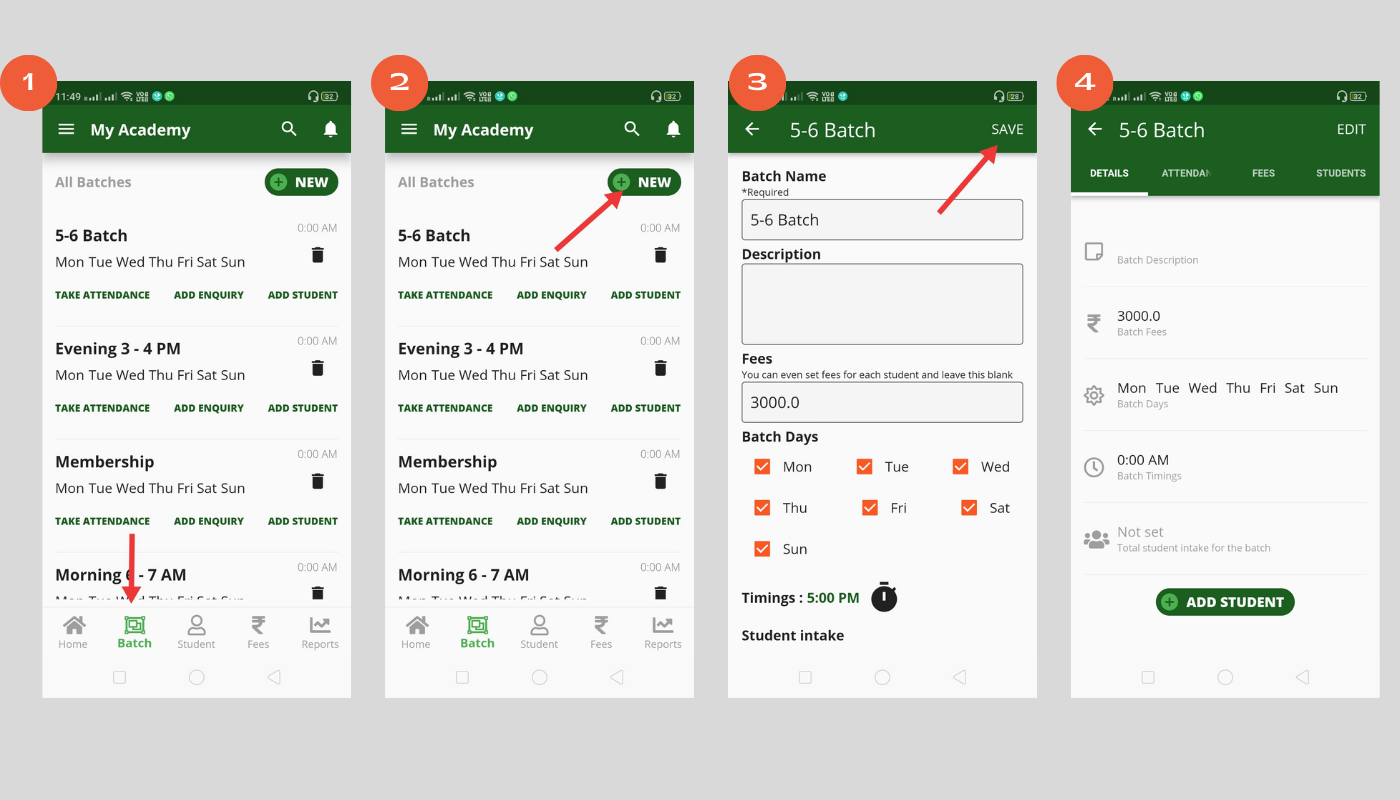
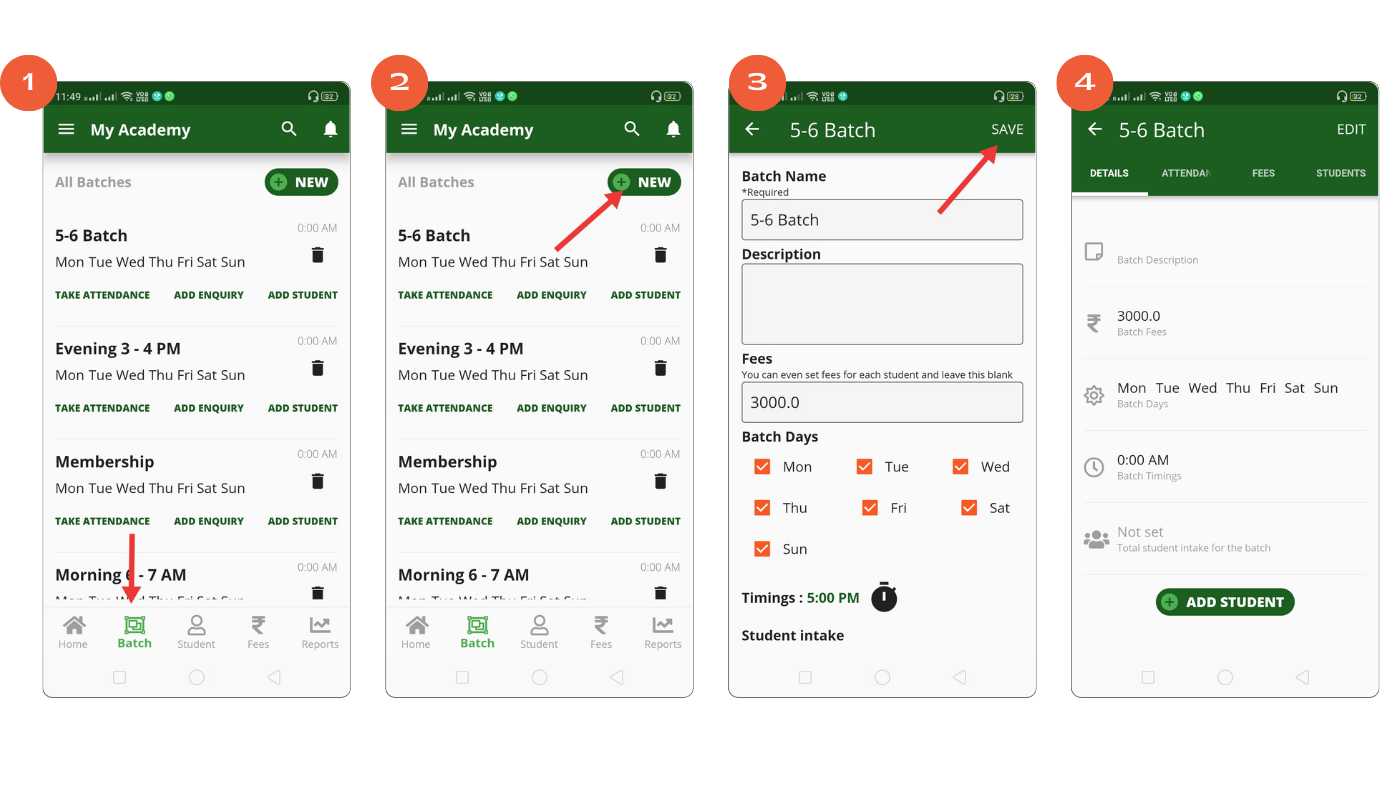
Latest changes

diff --git a/_includes/header.html b/_includes/header.html
@@ -1,8 +1,8 @@
-<nav class="navbar navbar-expand-lg bg-light">
+<nav class="navbar navbar-expand-lg bg-white shadow">
   <div class="container">
     <a class="navbar-brand" rel="author" href="{{ "/" | relative_url }}">
       <img src="/assets/img/logo_new.png" width="100" alt="">
-      <!-- {{ site.title | escape }} -->
+      <!-- {{ site.title | escape }} -->      
     </a>
 
     {%- assign page_paths = site.header_pages -%}

diff --git a/_layouts/bb_guide_post.html b/_layouts/bb_guide_post.html
@@ -22,15 +22,17 @@ layout: bb_default
 
 
     {% if page.image %}
-      <div class="row">
+    <div class="row">
+      <div class="col-12 col-lg-8">
         <img alt="{{page.imagealt}}" src="{{page.image}}" />
       </div>
+    </div>
 
-      {% endif %}
+    {% endif %}
 
 
-    <section>
-      
+    <section class="mt-3">
+
       <div class="row">
         <!-- Guide content -->
         <div class="col-12 col-lg-8">

diff --git a/pages/guide.html b/pages/guide.html
@@ -13,7 +13,7 @@ redirect_from:
     <div class="jumbotron p-4 p-md-5 rounded bg-white border">
         <div class="row">
             <div class="col-12 col-md-6">
-                <img src="https://miro.medium.com/v2/resize:fit:720/format:webp/1*heeSvDKyk33oMdnUmgPvwg.png" />
+                <img src="/assets/img/drive/guide/getting-started.png" />
 
             </div>
             <div class="col-12 col-md-6 px-0">

diff --git a/_posts/drive/guide/2023-09-23-getting-started.md b/_posts/drive/guide/2023-09-23-getting-started.md
@@ -5,7 +5,7 @@ permalink: /drive/guide/getting-started
 title: Getting Started
 excerpt: A step-by-step guide on how to get started with Badmintonbuddy DRIVE
 date: 2023-09-25
-image: https://miro.medium.com/v2/resize:fit:720/format:webp/1*heeSvDKyk33oMdnUmgPvwg.png
+image: /assets/img/drive/guide/getting-started.png
 imagealt: Getting started with DRIVE
 ---
 
@@ -36,4 +36,6 @@ Additionally, you can give access to your team members (partners, coaches, manag
 1. Click Batch from the bottom and go to batch list screen and then click **NEW**
 2. Add a name to the batch, an optional description, if you have all students within the batch having same fees you can also add fees details and then hit **SAVE**
 
-> Tip: If you have a batch which starts at 4PM you can name the batch as 4–5PM batch, that’s easy to recognise and remember.
+:bulb: **TIP-** If you have a batch which starts at 4PM you can name the batch as **4–5 PM** batch, that’s easy to recognise and remember.
+
+
